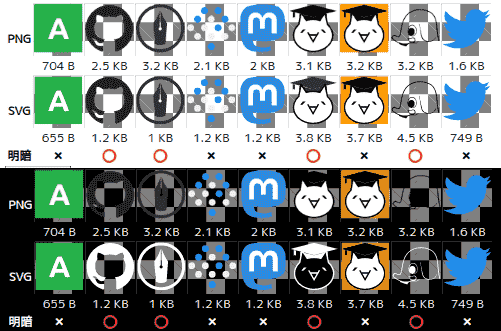
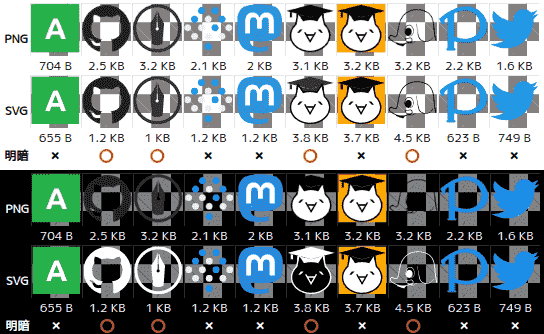
pixivアイコンを追加した。

diff --git a/docs/index.html b/docs/index.html
@@ -2,13 +2,13 @@
 <html>
 <head prefix="og: https://ogp.me/ns# article: https://ogp.me/ns/article#">
 <meta charset="utf-8">
-<title>SNSのアイコンを作った　8種</title>
-<meta name="description" content="SNSのアイコンを作った　8種">
+<title>SNSのアイコンを作った　10種</title>
+<meta name="description" content="SNSのアイコンを作った　10種">
 <meta name="author" content="ytyaru">
 <meta name="viewport" content="width=device-width, initial-scale=1" />
 <meta property="og:type" content="article" />
 <meta property="og:site_name" content="ytyaru" />
-<meta property="og:title" content="SNSのアイコンを作った　8種" />
+<meta property="og:title" content="SNSのアイコンを作った　10種" />
 <meta property="og:description" content="CC0ライセンス。ご自由にどうぞ。" />
 <meta property="og:image" content="./asset/image/eye-catch/sns.png" />
 <meta property="article:published_time" content="2022-05-24T20:27:00+09:00" />
@@ -36,7 +36,7 @@
 <script src="./js/main.js"></script>
 </head>
 <body>
-<h1>SNSのアイコンを作った　8種</h1>
+<h1>SNSのアイコンを作った　10種</h1>
 <p>ご自由にお使いください。</p>
 <div id="image-table-horizon"></div>
 <a href="https://creativecommons.org/publicdomain/zero/1.0/deed.ja" title="CC0"><img src="./asset/image/license/cc0-pd.png" srcset="./asset/image/license/cc0-pd.svg"></a>
